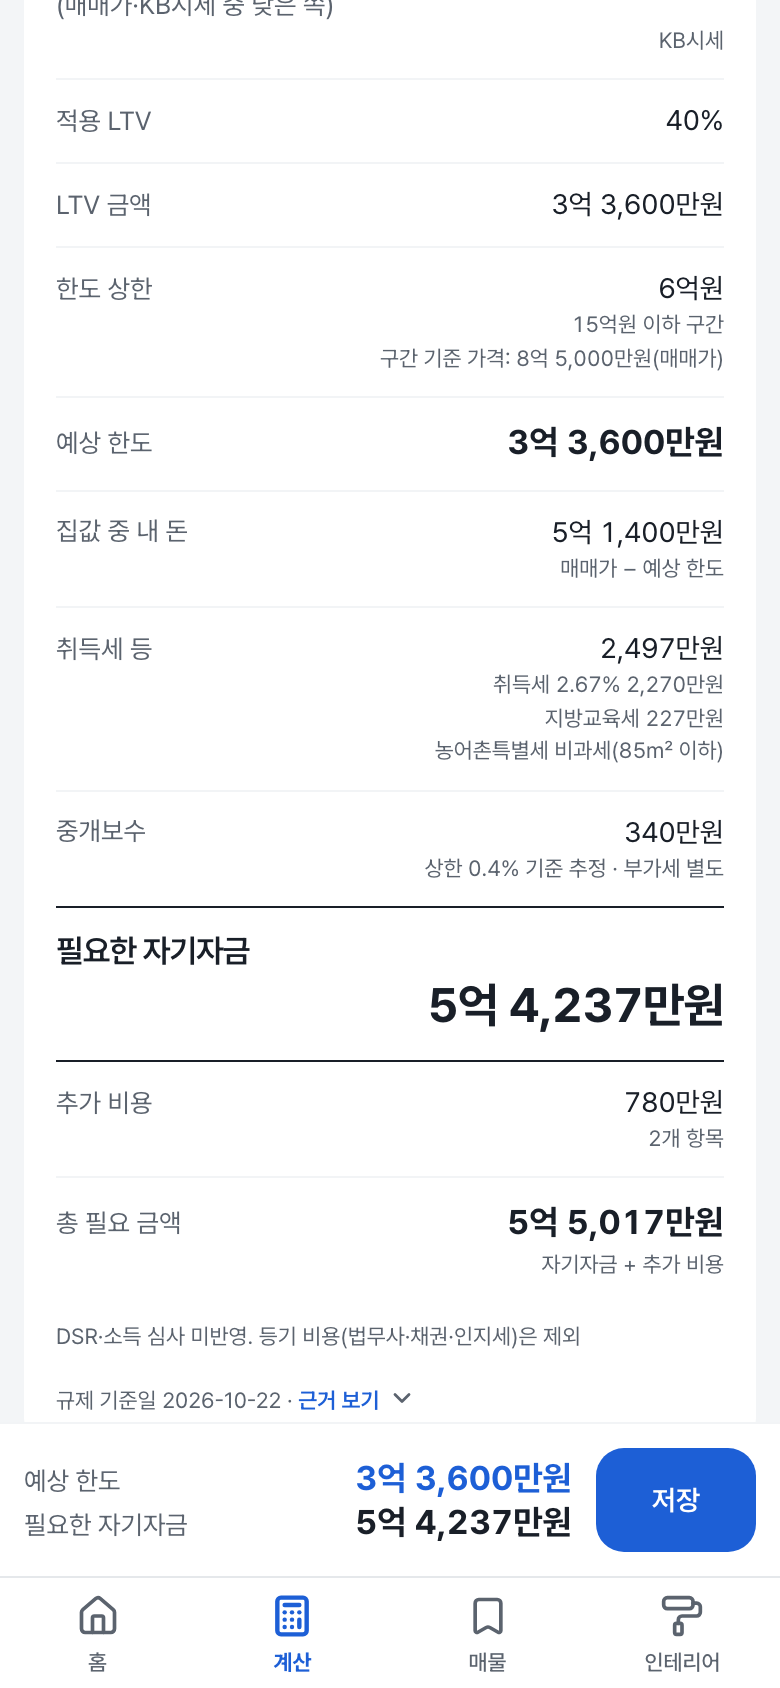
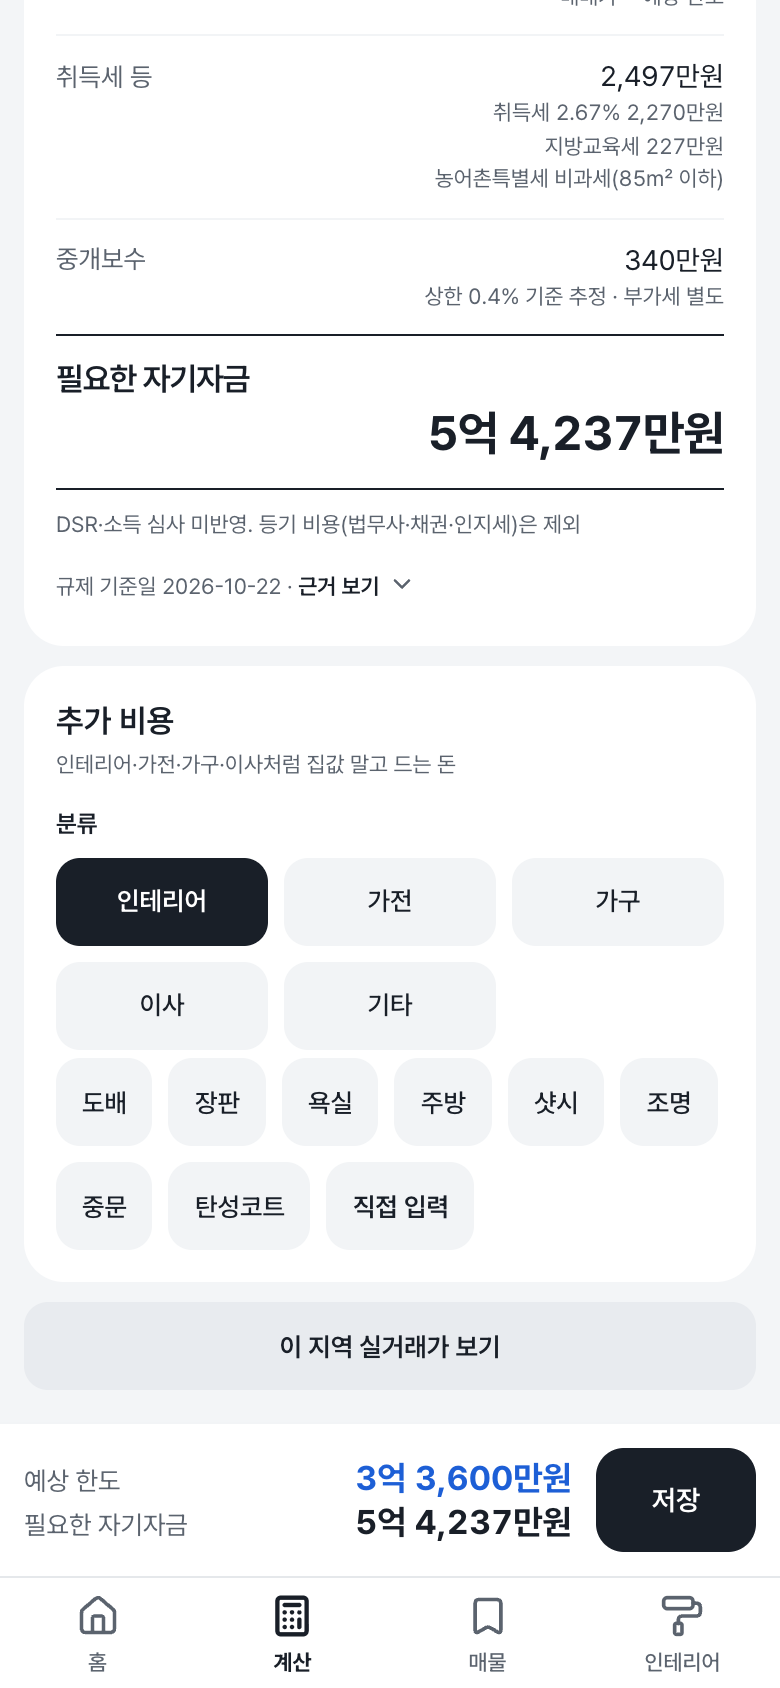
feat: 조작은 먹색·코발트는 돈 데이터로, 홈 한 장 면과 새 로고 (#65)
- 버튼·탭·고른 칸·링크·떠 있는 [+]를 먹색(#191f28)으로. 코발트는 남은 예산·예상 한도·예산 막대·확정 표시에만
- 홈 기능 세 개를 같은 카드 세 장에서 흰 면 한 장을 구분선으로 나눈 줄로
- 로고를 집 윤곽 아래를 코발트로 채운 모양으로 다시 그림(favicon, 홈 화면 아이콘)
- 예산 안에 든 매물의 "남음"은 회색, 시트의 지금 값은 흰 면 + 먹색 테두리
- README 화면 사진 4장 다시 찍음

diff --git a/src/index.css b/src/index.css
@@ -1,9 +1,10 @@
 /* 전역 CSS는 리셋·변수·버튼 눌림 표시와 인쇄 영역 규칙만 둔다. 화면 스타일은 CSS Modules. */
 :root {
   /*
-   * 소비자 금융 앱 팔레트(스펙 ui-refresh, pastel-consumer): 회색 바탕 위 흰 카드, 테두리 대신 면 한 단계, 채운 입력칸,
-   * 코발트 주 동작. 코발트는 주 동작과 주 데이터 한 가지(남은 예산·예상 한도)에만 둔다. 상태색(오류·경고)은 그대로다.
-   * 글자색은 바탕(--color-bg)과 흰 면 모두에서 4.5:1 이상이다(muted 바탕 5.6:1·흰 면 6.1:1, 코발트 위 흰 글자 5.7:1).
+   * 소비자 금융 앱 팔레트(스펙 ui-refresh, pastel-consumer): 회색 바탕 위 흰 카드, 테두리 대신 면 한 단계, 채운 입력칸.
+   * 버튼·탭·고른 칸·링크 같은 조작은 먹색(--color-primary = 글자색)이다. 코발트(--color-accent)는 돈 데이터에만 둔다:
+   * 남은 예산·예상 한도 숫자, 예산 막대, 확정 표시. 상태색(오류·경고)은 그대로다.
+   * 글자색은 바탕(--color-bg)과 흰 면 모두에서 4.5:1 이상이다(muted 바탕 5.6:1·흰 면 6.1:1, 먹색 위 흰 글자 16:1).
    */
   --color-text: #191f28;
   --color-text-muted: #5b636e;
@@ -18,10 +19,10 @@
   --color-border: #e5e8eb;
   --color-rule: #f2f4f6;
   --color-control: #d0d3d8;
-  --color-primary: #1d5fd6;
+  --color-primary: #191f28;
   --color-on-primary: #fff;
   --color-accent: #1d5fd6;
-  /* 선택된 칩·세그먼트: 옅은 코발트 면 + 진한 코발트 글자(9.4:1) */
+  /* 데이터의 옅은 코발트 면(확정한 줄·후보 배지) + 진한 코발트 글자(9.4:1). 고른 칸·눌린 버튼은 먹색 면이다. */
   --color-accent-soft: #e3efff;
   --color-accent-ink: #0a3a80;
   --color-error: #c4242a;

diff --git a/src/containers/Mortgage/Hub/components/HubCard.module.css b/src/containers/Mortgage/Hub/components/HubCard.module.css
@@ -5,14 +5,12 @@
   gap: var(--space-1);
   min-height: 44px;
   padding: calc(var(--space-4) + var(--space-1));
-  border-radius: var(--radius-card);
-  background: var(--color-surface);
   color: var(--color-text);
   text-decoration: none;
 }
 
 /*
- * 대출 계산: 홈의 메인이라 맨 위에서 가장 크게(제목 22px, 위아래 여백 32px) 둔다. 면은 다른 카드와 같고 크기로만 구분한다.
+ * 대출 계산: 홈의 메인이라 맨 위에서 가장 크게(제목 22px, 위아래 여백 32px) 둔다. 같은 면 안에서 크기로만 구분한다.
  */
 .primaryCard {
   composes: card;
@@ -20,8 +18,9 @@
   padding: calc(var(--space-5) + var(--space-2)) calc(var(--space-4) + var(--space-1));
 }
 
-.primaryCard:focus-visible {
-  outline-offset: 3px;
+/* 줄은 흰 면 안에 있어(면이 넘침을 자른다) 포커스 링을 안쪽에 그린다 */
+.card:focus-visible {
+  outline-offset: -3px;
 }
 
 /* 카드 제목 20px 700(오른쪽 위 chevron 자리를 비운다). 대출 계산 카드는 22px */

diff --git a/src/containers/Mortgage/Hub/MortgageHub.module.css b/src/containers/Mortgage/Hub/MortgageHub.module.css
@@ -27,10 +27,25 @@
   padding: 0 calc(var(--space-4) + var(--space-1));
 }
 
+/*
+ * 기능 세 개는 흰 면 한 장을 구분선으로 나눈 줄이다(같은 모양 카드 세 장을 띄우지 않는다). 줄 하나가 링크 하나이고,
+ * 구분선은 줄 안쪽 여백만큼 들여 긋는다.
+ */
 .cards {
   display: flex;
   flex-direction: column;
-  gap: var(--space-3);
+  overflow: hidden;
+  border-radius: var(--radius-card);
+  background: var(--color-surface);
+}
+
+.cards > li + li > a::before {
+  content: "";
+  position: absolute;
+  top: 0;
+  right: calc(var(--space-4) + var(--space-1));
+  left: calc(var(--space-4) + var(--space-1));
+  border-top: 1px solid var(--color-border);
 }
 
 /* 우리 집 카드의 계획 한 묶음(계획마다 두 줄씩 쌓는다) */

diff --git a/src/containers/Mortgage/Listings/components/ListingCard.module.css b/src/containers/Mortgage/Listings/components/ListingCard.module.css
@@ -73,7 +73,7 @@
   padding-right: calc(var(--reveal-button-width) + var(--collapse-width));
 }
 
-/* 이 카드만 잠깐 보이기. 누른 동안(보이는 중)은 선택 표시(옅은 코발트 면)로 채운다. */
+/* 이 카드만 잠깐 보이기. 누른 동안(보이는 중)은 선택 표시(먹색 면)로 채운다. */
 .revealButton {
   position: absolute;
   top: var(--space-4);
@@ -91,8 +91,8 @@
 }
 
 .revealButton[aria-pressed="true"] {
-  background: var(--color-accent-soft);
-  color: var(--color-accent-ink);
+  background: var(--color-primary);
+  color: var(--color-on-primary);
 }
 
 /*
@@ -156,7 +156,8 @@
 
 .leftNote {
   composes: overNote;
-  color: var(--color-accent);
+  color: var(--color-text-muted);
+  font-weight: 500;
 }
 
 .condition {

diff --git a/src/containers/Mortgage/Listings/components/ListingStatusSheet.module.css b/src/containers/Mortgage/Listings/components/ListingStatusSheet.module.css
@@ -6,7 +6,7 @@
 
 /*
  * 엄지로 누르기 쉬운 넓은 줄(글자 크기 시트와 같은 모양). 고르지 않은 줄은 채운 면(투명 테두리는 고대비 모드의 윤곽),
- * 지금 상태는 옅은 코발트 면 + 진한 코발트 글자다.
+ * 지금 상태는 흰 면 + 2px 먹색 테두리다(시트 한 장을 먹색 면으로 채우면 너무 무겁다).
  */
 .option {
   display: flex;
@@ -23,8 +23,10 @@
 }
 
 .option[aria-pressed="true"] {
-  background: var(--color-accent-soft);
-  color: var(--color-accent-ink);
+  border-color: var(--color-primary);
+  background: var(--color-surface);
+  box-shadow: inset 0 0 0 1px var(--color-primary);
+  color: var(--color-text);
 }
 
 .current {

diff --git a/src/components/TextSizeSheet.module.css b/src/components/TextSizeSheet.module.css
@@ -6,7 +6,7 @@
 
 /*
  * 상태 고르기 시트(ListingStatusSheet)와 같은 넓은 줄. 고르지 않은 줄은 채운 면(투명 테두리는 고대비 모드의 윤곽),
- * 지금 크기는 옅은 코발트 면 + 진한 코발트 글자(선택 칩과 같은 표시)다.
+ * 지금 크기는 흰 면 + 2px 먹색 테두리다(상태 시트와 같은 표시).
  */
 .option {
   display: flex;
@@ -24,8 +24,10 @@
 }
 
 .option[aria-pressed="true"] {
-  background: var(--color-accent-soft);
-  color: var(--color-accent-ink);
+  border-color: var(--color-primary);
+  background: var(--color-surface);
+  box-shadow: inset 0 0 0 1px var(--color-primary);
+  color: var(--color-text);
   font-weight: 600;
 }
 

diff --git a/src/components/TabNav.module.css b/src/components/TabNav.module.css
@@ -29,8 +29,8 @@
 }
 
 /*
- * 선택 탭은 코발트 아이콘·라벨 + 굵은 라벨(700)·굵은 아이콘 선. 색만으로 하지 않는다(굵기). 비활성은 muted 500.
- * 코발트 글자는 흰 바탕 대비 5.6:1.
+ * 선택 탭은 먹색 아이콘·라벨 + 굵은 라벨(700)·굵은 아이콘 선. 색만으로 하지 않는다(굵기). 비활성은 muted 500.
+ * 코발트는 돈 데이터에만 두므로 탭에는 쓰지 않는다.
  */
 .tab {
   display: flex;
@@ -49,7 +49,7 @@
 }
 
 .tab[aria-current="page"] {
-  color: var(--color-accent);
+  color: var(--color-text);
   font-weight: 700;
 }
 

diff --git a/src/containers/Mortgage/Listings/MortgageListings.module.css b/src/containers/Mortgage/Listings/MortgageListings.module.css
@@ -44,14 +44,14 @@
   white-space: nowrap;
 }
 
-/* 가리기: 켜진 동안 선택 표시(옅은 코발트 면 + 진한 코발트 글자)로 채운다. */
+/* 가리기: 켜진 동안 선택 표시(먹색 면 + 흰 글자)로 채운다. */
 .privacyButton {
   composes: headerButton;
 }
 
 .privacyButton[aria-pressed="true"] {
-  background: var(--color-accent-soft);
-  color: var(--color-accent-ink);
+  background: var(--color-primary);
+  color: var(--color-on-primary);
 }
 
 /* 화면에서는 숨기고 보조기기에는 읽힌다 */

diff --git a/src/components/AppHeader.module.css b/src/components/AppHeader.module.css
@@ -9,7 +9,7 @@
   padding: 0 var(--space-2) 0 var(--space-4);
 }
 
-/* 앱 아이콘(집 + 맞음 표시, public/favicon.svg)과 이름 */
+/* 앱 아이콘(집 윤곽 + 아래를 채운 코발트 = 집값 중 대출로 채우는 몫, public/favicon.svg)과 이름 */
 .brand {
   display: flex;
   align-items: center;
@@ -22,7 +22,6 @@
 
 .logo {
   flex: none;
-  border-radius: 6px;
 }
 
 /* 작은 "가"와 큰 "가"를 나란히 둔 글자 크기 버튼 */

diff --git a/src/components/ChoiceGroup.module.css b/src/components/ChoiceGroup.module.css
@@ -95,10 +95,10 @@
   box-shadow: 0 1px 3px rgb(10 10 10 / 12%);
 }
 
-/* 고른 칸: 옅은 코발트 면 + 진한 코발트 글자 600. 크기는 그대로다. */
+/* 고른 칸: 먹색 면 + 흰 글자 600. 크기는 그대로다. */
 .input:checked + .label {
-  background: var(--color-accent-soft);
-  color: var(--color-accent-ink);
+  background: var(--color-primary);
+  color: var(--color-on-primary);
   font-weight: 600;
 }
 

diff --git a/src/containers/Mortgage/Home/components/PlanTable.module.css b/src/containers/Mortgage/Home/components/PlanTable.module.css
@@ -11,7 +11,7 @@
   gap: var(--space-2);
 }
 
-/* 바탕 위 보조 버튼 두 개(파일·인쇄). 화면의 주 동작이 아니라 코발트로 채우지 않는다. */
+/* 바탕 위 보조 버튼 두 개(파일·인쇄). 화면의 주 동작이 아니라 먹색으로 채우지 않는다. */
 .exportButton {
   min-height: 52px;
   padding: 0 var(--space-3);

diff --git a/src/components/SheetBody.module.css b/src/components/SheetBody.module.css
@@ -49,7 +49,7 @@
   gap: var(--space-2);
 }
 
-/* 주 동작 = 코발트 채움(반경 14px), 보조 = 채운 면, 위험 = 옅은 오류 면 + 오류색 글자 */
+/* 주 동작 = 먹색 채움(반경 14px), 보조 = 채운 면, 위험 = 옅은 오류 면 + 오류색 글자 */
 .primaryButton,
 .secondaryButton,
 .dangerButton {
